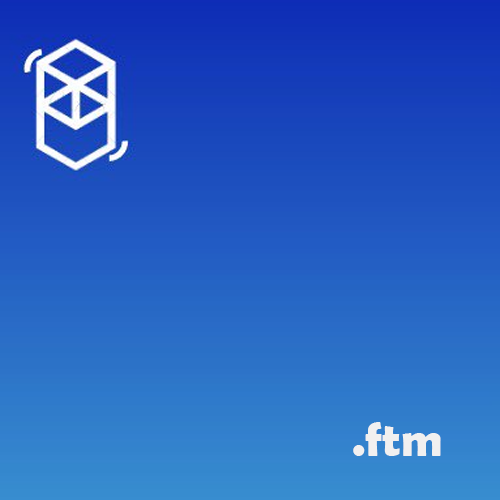
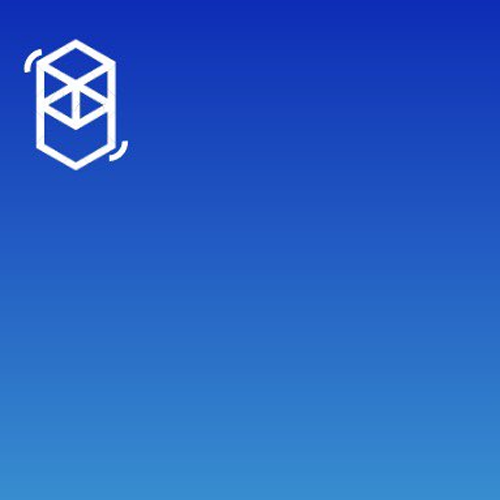
updated font family for nft

Changed region(s): [[0.69, 0.84, 0.9, 0.93]]

diff --git a/utils.js b/utils.js
@@ -26,11 +26,11 @@ const customFonts = {
   },
 }
 const fonts = {
-  postTitlexl: 'bold 110px Kefa',
-  postTitlelg: 'bold 90px Kefa',
-  postTitlemd: 'bold 70px Kefa',
-  postTitlesm: 'bold 50px Kefa',
-  site: 'bold 30pt Kefa',
+  postTitlexl: 'bold 100px Franklin Gothic Medium',
+  postTitlelg: 'bold 80px Franklin Gothic Medium',
+  postTitlemd: 'bold 60px Franklin Gothic Medium',
+  postTitlesm: 'bold 40px Franklin Gothic Medium',
+  site: 'bold 30pt Franklin Gothic Medium',
 }
 // Register custom fonts
 Object.keys(customFonts).forEach((font) => {
@@ -102,7 +102,7 @@ module.exports.generateNFT = async (new_params, canvasConfig) => {
     ctx.fillRect(0, 0, 500, 500)
     ctx.fillStyle = 'white'
     ctx.textAlign = 'center'
-    ctx.textBaseline = 'middle'
+    ctx.textBaseline = 'alphabetic'
     console.log('length of name: ', new_params.name.length)
     if (new_params.name.length < 7) {
       ctx.font = fonts.postTitlexl
@@ -116,8 +116,9 @@ module.exports.generateNFT = async (new_params, canvasConfig) => {
       ctx.font = fonts.site
     }
     let drawX = 250
-    let drawY = 300
-    ctx.fillText(new_params.name, drawX, drawY)
+    let drawY = 400
+    let maxWidth = 450
+    ctx.fillText(new_params.name, drawX, drawY, maxWidth)
     fs.writeFileSync(
       `${paths.images}/${new_params.tokenId.toString()}.png`,
       imageCanvas.toBuffer('image/png'),
